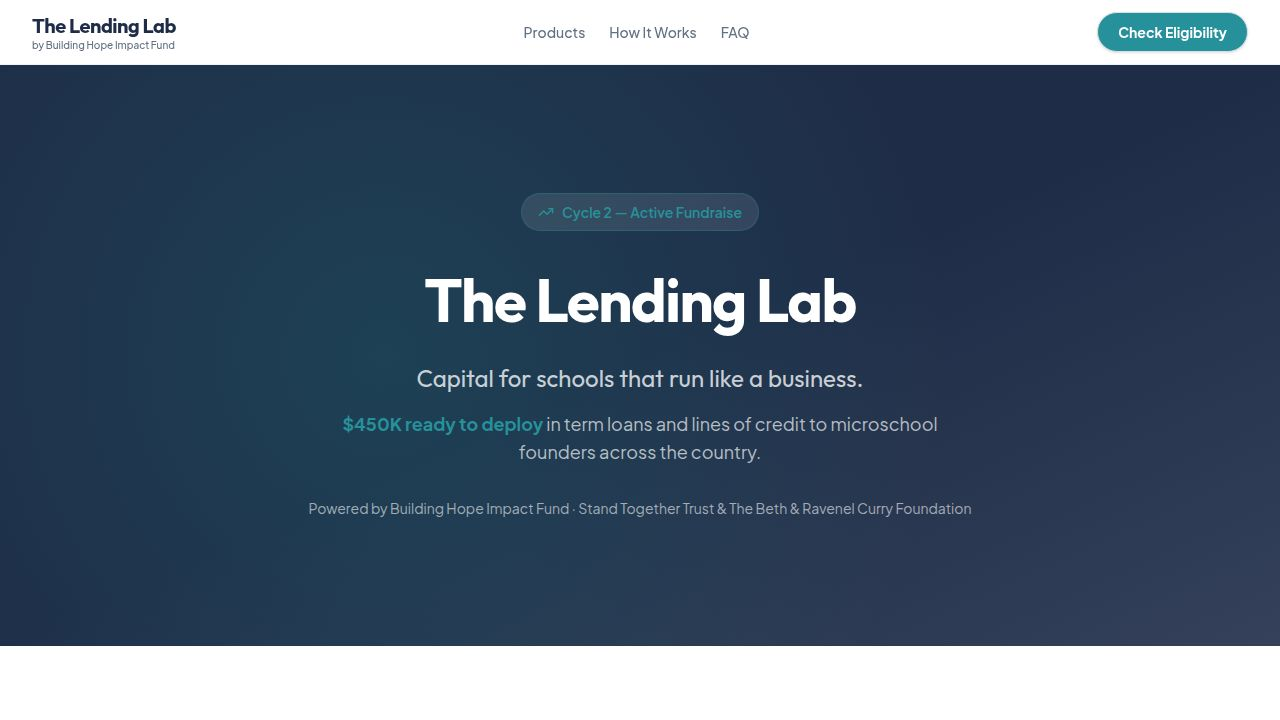
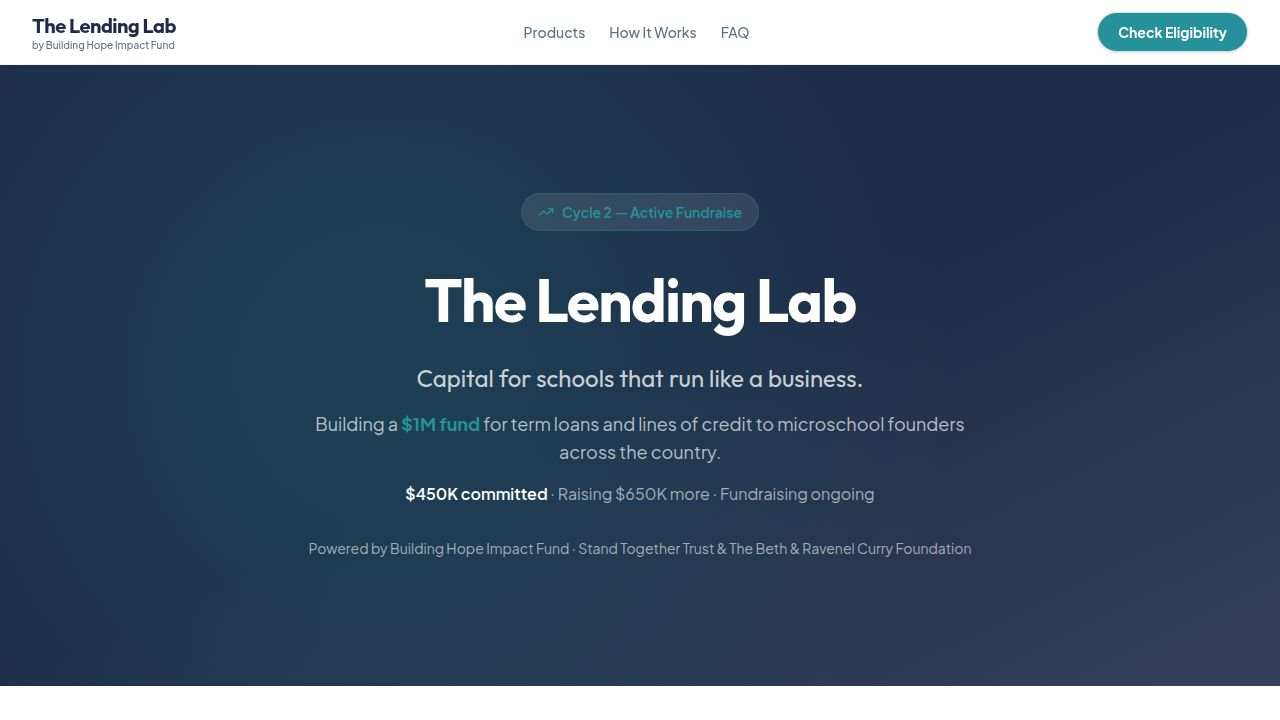
Update application window details and funding goals across the platform
Adjusts UI copy and constants to reflect the new application window dates (May 6 - November 6, 2026) and updates the fund target from $650K to a $1M fund, with $450K committed and $650K still to raise. Includes changes to Home.tsx, OutcomeFlagged.tsx, OutcomeQualified.tsx, replit.md, shared/content.ts, and shared/rules.ts.

Replit-Commit-Author: Agent
Replit-Commit-Session-Id: cc8e420b-9702-4c29-b2f3-55bd4dc9385b
Replit-Commit-Checkpoint-Type: full_checkpoint
Replit-Commit-Event-Id: 2c10c5d4-ea37-4f1f-8638-867312ab811e
Replit-Commit-Screenshot-Url: https://storage.googleapis.com/screenshot-production-us-central1/45903f48-40c0-4523-9b61-59b5749d2b87/cc8e420b-9702-4c29-b2f3-55bd4dc9385b/26sGK6U
Replit-Helium-Checkpoint-Created: true

Changed region(s): [[0.0, 0.8861, 1.0, 0.9778], [0.25, 0.6722, 0.75, 0.7944], [0.25, 0.5806, 0.75, 0.6417]]

diff --git a/client/src/pages/Home.tsx b/client/src/pages/Home.tsx
@@ -180,10 +180,10 @@ function PreLaunchLanding() {
               Capital for schools that run like a business.
             </p>
             <p className="text-lg text-primary-foreground/70 max-w-2xl mx-auto mb-4">
-              Raising <span className="text-secondary font-bold">${(RULES.FUNDRAISE_GOAL / 1000).toFixed(0)}K</span> to fund term loans and lines of credit for microschool founders across the country.
+              Building a <span className="text-secondary font-bold">${(RULES.FUND_TARGET / 1000000).toFixed(0)}M fund</span> for term loans and lines of credit to microschool founders across the country.
             </p>
             <p className="text-base text-primary-foreground/60 max-w-xl mx-auto mb-8">
-              <span className="text-white font-semibold">${(RULES.DEPLOY_AMOUNT / 1000).toFixed(0)}K committed</span> · ${((RULES.FUNDRAISE_GOAL - RULES.DEPLOY_AMOUNT) / 1000).toFixed(0)}K still needed
+              <span className="text-white font-semibold">${(RULES.DEPLOY_AMOUNT / 1000).toFixed(0)}K committed</span> · Raising ${(RULES.FUNDRAISE_GOAL / 1000).toFixed(0)}K more · Fundraising ongoing
             </p>
             <p className="text-sm text-primary-foreground/60">
               Powered by {RULES.PHILANTHROPY.fund} · {RULES.PHILANTHROPY.partners.join(" & ")}
@@ -201,7 +201,7 @@ function PreLaunchLanding() {
                   </div>
                   <h2 className="text-xl font-display font-bold text-primary">For Philanthropists</h2>
                   <p className="text-muted-foreground text-sm leading-relaxed">
-                    We're raising ${(RULES.FUNDRAISE_GOAL / 1000).toFixed(0)}K and still need ${((RULES.FUNDRAISE_GOAL - RULES.DEPLOY_AMOUNT) / 1000).toFixed(0)}K to reach our goal. Interested in powering up this fund to help K-12 entrepreneurs build sustainable schools?
+                    We're building a ${(RULES.FUND_TARGET / 1000000).toFixed(0)}M loan fund and still need to raise ${(RULES.FUNDRAISE_GOAL / 1000).toFixed(0)}K. Interested in powering capital to K-12 entrepreneurs building sustainable schools?
                   </p>
                   <a
                     href="mailto:aserafin@bhope.org"
@@ -281,8 +281,11 @@ function PreLaunchLanding() {
                 <FileText className="w-5 h-5" />
                 Use this time wisely
               </div>
-              <p className="text-muted-foreground leading-relaxed">
-                There's no incentive in being first. Only prequalified complete applications will be reviewed. Use this time to get your documents together.
+              <p className="text-muted-foreground leading-relaxed font-medium">
+                We will not review incomplete applications.
+              </p>
+              <p className="text-muted-foreground text-sm leading-relaxed">
+                Qualified, complete applications matter far more than being first. Use this time to get your books reconciled, recruitment in place, tuition contracts signed, and facilities lined up. Everything together is what counts.
               </p>
             </div>
 
@@ -301,9 +304,12 @@ function PreLaunchLanding() {
             </div>
 
             <div className="pt-4">
-              <div className="inline-flex items-center gap-2 px-6 py-3 rounded-full bg-primary text-white font-display font-bold text-lg" data-testid="badge-launch-date">
-                <CalendarClock className="w-5 h-5" />
-                See you {RULES.APPLICATIONS_OPEN_DATE}!
+              <div className="inline-flex flex-col items-center gap-1 px-6 py-3 rounded-full bg-primary text-white font-display font-bold text-lg" data-testid="badge-launch-date">
+                <div className="flex items-center gap-2">
+                  <CalendarClock className="w-5 h-5" />
+                  Applications: {RULES.APPLICATIONS_OPEN_DATE} – {RULES.APPLICATIONS_CLOSE_DATE}
+                </div>
+                <span className="text-xs font-normal text-primary-foreground/70">{RULES.APPLICATIONS_CLOSE_NOTE}</span>
               </div>
             </div>
           </div>

diff --git a/client/src/pages/OutcomeFlagged.tsx b/client/src/pages/OutcomeFlagged.tsx
@@ -66,8 +66,9 @@ export default function OutcomeFlagged() {
                   <div className="space-y-3">
                     <div className="inline-flex items-center gap-2 px-4 py-3 rounded-lg bg-secondary/10 text-secondary font-semibold">
                       <CalendarClock className="w-5 h-5" />
-                      Applications open {RULES.APPLICATIONS_OPEN_DATE}
+                      Applications: {RULES.APPLICATIONS_OPEN_DATE} – {RULES.APPLICATIONS_CLOSE_DATE}
                     </div>
+                    <p className="text-xs text-muted-foreground">{RULES.APPLICATIONS_CLOSE_NOTE}</p>
                     <p className="text-sm text-muted-foreground">Your screening has been saved. Address the flagged items above before applications open.</p>
                   </div>
                 )}

diff --git a/client/src/pages/OutcomeQualified.tsx b/client/src/pages/OutcomeQualified.tsx
@@ -66,8 +66,9 @@ export default function OutcomeQualified() {
                   <div className="space-y-3">
                     <div className="inline-flex items-center gap-2 px-4 py-3 rounded-lg bg-secondary/10 text-secondary font-semibold">
                       <CalendarClock className="w-5 h-5" />
-                      Applications open {RULES.APPLICATIONS_OPEN_DATE}
+                      Applications: {RULES.APPLICATIONS_OPEN_DATE} – {RULES.APPLICATIONS_CLOSE_DATE}
                     </div>
+                    <p className="text-xs text-muted-foreground">{RULES.APPLICATIONS_CLOSE_NOTE}</p>
                     <p className="text-sm text-muted-foreground">Your pre-qualification has been saved. We'll notify you when applications open.</p>
                   </div>
                 )}

diff --git a/shared/content.ts b/shared/content.ts
@@ -8,7 +8,7 @@ export const CONTENT = {
   hero: {
     badge: `Powered by ${RULES.PHILANTHROPY.partners.join(" & ")}`,
     headline: "Capital for schools that run like a business.",
-    subhead: `Cycle 2: Raising $${(RULES.FUNDRAISE_GOAL / 1000).toFixed(0)}K. Term loans and revolving lines of credit for microschool founders who demonstrate financial discipline.`,
+    subhead: `Cycle 2: Building a $${(RULES.FUND_TARGET / 1000000).toFixed(0)}M fund. Term loans and revolving lines of credit for microschool founders who demonstrate financial discipline.`,
     cta1: "Check Eligibility",
     cta2: "Pre-qualify in 3 minutes",
   },

diff --git a/shared/rules.ts b/shared/rules.ts
@@ -29,6 +29,7 @@ export const RULES = {
   NONPROFIT_BOARD_MUST_BE_INDEPENDENT: true,
   NONPROFIT_REQUIRES_BOARD_RESOLUTION: true,
 
+  FUND_TARGET: 1000000,
   DEPLOY_AMOUNT: 450000,
   FUNDRAISE_GOAL: 650000,
   CYCLE: 2,
@@ -49,6 +50,8 @@ export const RULES = {
 
   APPLICATIONS_OPEN: false,
   APPLICATIONS_OPEN_DATE: "May 6, 2026",
+  APPLICATIONS_CLOSE_DATE: "November 6, 2026",
+  APPLICATIONS_CLOSE_NOTE: "or until Cycle 2 is 100% deployed",
   HANDOFF_URL_QUALIFIED: "",
   HANDOFF_URL_FLAGGED: "",
 } as const;

diff --git a/replit.md b/replit.md
@@ -49,8 +49,8 @@ Multi-page marketing and lead generation website for Building Hope Impact Fund's
 ## Centralized Configuration
 - `shared/rules.ts` — All thresholds + handoff config:
   - APPLICATIONS_OPEN (boolean gate for wizard vs waitlist)
-  - APPLICATIONS_OPEN_DATE (display string)
-  - FUNDRAISE_GOAL ($650K Cycle 2 goal), DEPLOY_AMOUNT ($450K committed)
+  - APPLICATIONS_OPEN_DATE ("May 6, 2026"), APPLICATIONS_CLOSE_DATE ("November 6, 2026"), APPLICATIONS_CLOSE_NOTE
+  - FUND_TARGET ($1M total), DEPLOY_AMOUNT ($450K committed), FUNDRAISE_GOAL ($650K still to raise)
   - NONPROFIT_MIN_BOARD_SIZE (4), NONPROFIT_BOARD_MUST_BE_INDEPENDENT, NONPROFIT_REQUIRES_BOARD_RESOLUTION
   - HANDOFF_URL_QUALIFIED / HANDOFF_URL_FLAGGED (redirect targets)
 - `shared/content.ts` — All UI copy, nonprofit requirements, nonprofit attestation labels
